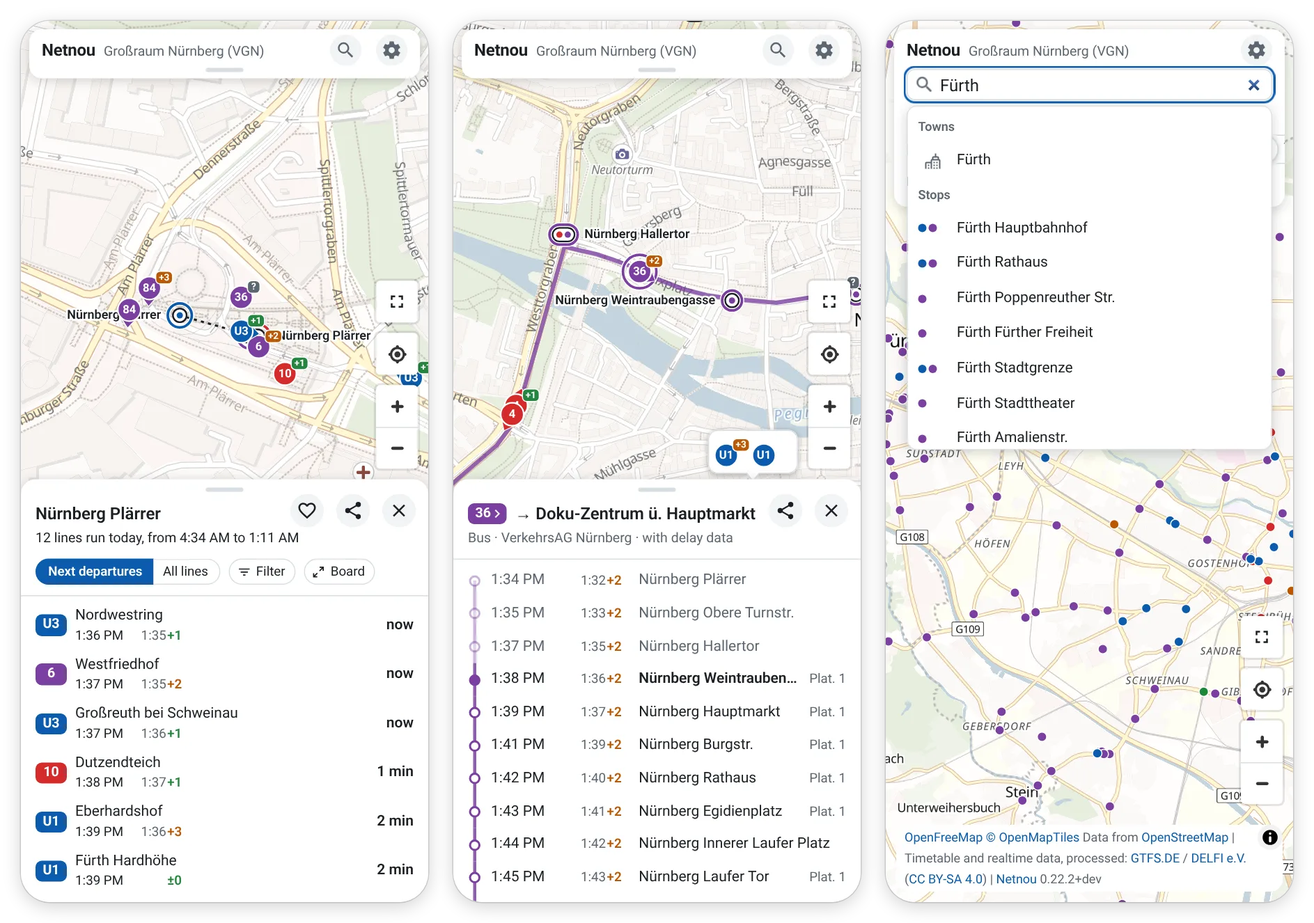
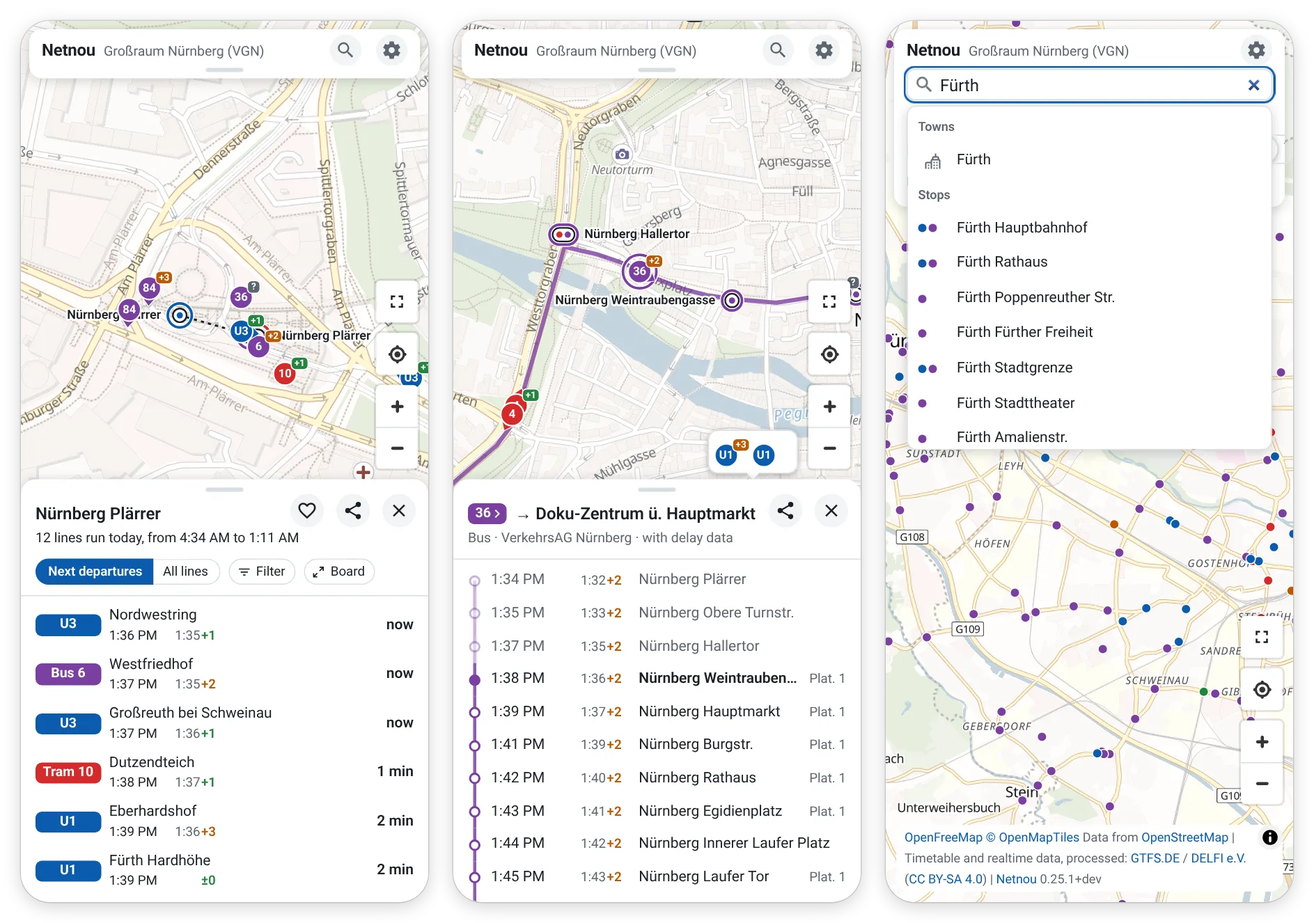
feat(page): tram 4 and bus 4 at one stop say their kind in the badge, not by colour alone (#322)
Where a stop has a line's name in two kinds that day, such as tram 4 and a
bus 4 that stands in for it, the badges of its departures and of its board
put a short name of the kind before the name: "Tram 4", "Bus 4". Colour
alone told them apart before, and a screen reader heard "4" for both.

- api/departures: today.twoKinds, the names the stop has in more than one
  kind that day (a board of several stops also looks at its departures).
- The badges of a stop's departures share one width, as on the board, so
  that the destinations stay in one column.
- The filter lists the directions under their kinds where there are
  several, as "Alle Linien" does.
- A screen reader hears a line named by a number with its kind everywhere:
  in a departure, the link to a line and a direction of the filter.
- Short names for every kind in every locale (badge.kind.*); the test of
  the mode ids checks that each kind has one.

Found by a design review of main (impeccable critique, P2).

Changed region(s): [[0.0307, 0.6493, 0.1844, 0.9585]]

diff --git a/public/app.js b/public/app.js
@@ -13,7 +13,7 @@ import { APP_NAME, READMES, chooseLanguage, dayOf, formatHour, formatList, forma
 import { FAVOURITE_NAME_ZOOM, HEART_MIDDLE, PLACES_ZOOM, RAIL_MODES, heartMark, joiningLines, mergePlaces, namePrecedence, namedAt, placeNames, stopMark, townToShow, townsAlong, withoutStyleStops } from './stops.js';
 import { favouritesFrom, isFavourite, lineFavourite, sameStop, stopFavourite, withChoice, withFavourite } from './favourites.js';
 import { choiceValue, readChoice, toggled } from './choice.js';
-import { DELAY_MAJOR_S, DELAY_MINOR_S, DELAY_SEVERE_S, MINUTES_MAX, NOTE_CHARS, badge as badgeOf, choiceChip as choiceChipOf, clockOf, delayCell as delayCellOf, delayClass, delayNode as delayNodeOf, delaySum as delaySumOf, unknownDelay as unknownDelayOf, delayFlag, delayText, departureLists, departuresSub as departuresSubOf, directionSign as directionSignOf, leavesAt, lineHead, lineLists, lineStops, lineTimetable, minutesNode as minutesNodeOf, trackAt, VEHICLE_R, panelHead as panelHeadOf, stopHeading, stopToday, tomorrowAt as tomorrowAtOf, untilText as untilTextOf, vehicleLabel, warningSign as warningSignOf, warns } from './panel.js';
+import { DELAY_MAJOR_S, DELAY_MINOR_S, DELAY_SEVERE_S, MINUTES_MAX, NOTE_CHARS, badge as badgeOf, choiceChip as choiceChipOf, clockOf, delayCell as delayCellOf, delayClass, delayNode as delayNodeOf, delaySum as delaySumOf, unknownDelay as unknownDelayOf, delayFlag, delayText, departureLists, departuresSub as departuresSubOf, directionSign as directionSignOf, leavesAt, lineBadge, lineHead, lineLists, lineSaid as lineSaidOf, lineStops, lineTimetable, minutesNode as minutesNodeOf, trackAt, twoKinds, VEHICLE_R, panelHead as panelHeadOf, stopHeading, stopToday, tomorrowAt as tomorrowAtOf, untilText as untilTextOf, vehicleLabel, warningSign as warningSignOf, warns } from './panel.js';
 import { BOARD_MAX, BOARD_SHARE, BOARD_STOPS, boardBlocks, boardQuery, boardShare, displayQuery, ledBy, readBoard, readDisplay, readStops } from './display.js';
 import { mdiChevronLeft, mdiChevronRight, mdiCityVariantOutline, mdiFullscreen, mdiFullscreenExit, mdiHeart, mdiHeartOutline, mdiMinusCircleOutline, mdiPlus } from './vendor/material-design-icons/icons.js';
 import { AttributionControl, MapLibreMap, NavigationControl } from './vendor/maplibre-gl/maplibre-gl.mjs';
@@ -853,17 +853,24 @@ function renderChoice() {
     if (last && last.mode === direction.mode && last.line === direction.line) last.directions.push(direction);
     else lines.push({ mode: direction.mode, line: direction.line, directions: [direction] });
   }
+  const line = ({ directions }) => el('li', {}, directions.map((direction) => {
+    const name = directionName(direction, list);
+    const on = all || state.lines.includes(direction.key) || state.lines.includes(direction.key.split('~')[0]);
+    const button = chip(direction.key, on, [directionSign(direction), el('span', { class: 'name', text: name })], () => applyChoice(toggled(state.lines, direction.key)));
+    button.dataset.mode = direction.mode;
+    button.setAttribute('aria-label', t('choice.direction', { line: lineSaid(direction.line, direction.mode), to: name }));
+    return button;
+  }));
+  // (under their kinds where there are several, as "Alle Linien" has them: a tram 4 and a bus 4 are not told apart by colour alone)
+  const kindOf = (mode) => (DRAW_ORDER.includes(mode) ? mode : 'other');
+  const kinds = [...new Set(lines.map(({ mode }) => kindOf(mode)))];
   node.replaceChildren(
     // (every line again, where only some are shown: while all are, it would do nothing)
     ...(all ? [] : [chip('', false, [el('span', { class: 'name', text: t('choice.all') })], () => applyChoice([]))]),
-    el('ul', { class: 'choice-lines' }, lines.map(({ directions }) => el('li', {}, directions.map((direction) => {
-      const name = directionName(direction, list);
-      const on = all || state.lines.includes(direction.key) || state.lines.includes(direction.key.split('~')[0]);
-      const button = chip(direction.key, on, [directionSign(direction), el('span', { class: 'name', text: name })], () => applyChoice(toggled(state.lines, direction.key)));
-      button.dataset.mode = direction.mode;
-      button.setAttribute('aria-label', t('choice.direction', { line: direction.line, to: name }));
-      return button;
-    })))),
+    ...kinds.flatMap((kind) => [
+      ...(kinds.length > 1 ? [el('h3', { class: 'rows-head', text: t(`mode.${kind}`) })] : []),
+      el('ul', { class: 'choice-lines' }, lines.filter(({ mode }) => kindOf(mode) === kind).map(line)),
+    ]),
   );
   if (focused !== null && focused !== undefined) node.querySelector(`[data-key="${CSS.escape(focused)}"]`)?.focus({ preventScroll: true });
 }
@@ -2770,13 +2777,9 @@ function stopTitle(name, town = null) {
   return `${t('address.stopTitle', { stop: shown ? t('address.stopWithTown', { stop: name, town: shown }) : name })} – ${siteName}`;
 }
 
-/**
- * A line as a rider says it: a name that is a number with the kind of the
- * line before it, "Tram 10", "Bus 36"; "U1" or "RE 31" as they are. As the
- * server names it (labelled in server/lib/addresses.js).
- */
+/** A line as a rider says it, "Tram 10", "U1" (lineSaid in panel.js). */
 function lineSaid(name, mode) {
-  return /^\d/.test(name) ? `${t(`address.kind.${mode}`)} ${name}` : name;
+  return lineSaidOf(name, mode, { t });
 }
 
 function lineTitle({ name, mode }) {
@@ -3468,7 +3471,7 @@ function renderTrip(trip, scrollToNext) {
   // The badge leads to the line, whichever way the trip was chosen (#147),
   // with a sign in it: a finger cannot rest on it to find out.
   const line = { name: trip.line, mode: trip.mode, agency: trip.agency, at: trip.lineAt };
-  const toLine = el('button', { type: 'button', class: 'to-line', 'aria-label': t('line.open', { line: trip.line }), title: t('line.open', { line: trip.line }), onclick: () => selectLine(line, { fromTrip: trip.id, from: sheetName() }) }, [
+  const toLine = el('button', { type: 'button', class: 'to-line', 'aria-label': t('line.open', { line: lineSaid(trip.line, trip.mode) }), title: t('line.open', { line: lineSaid(trip.line, trip.mode) }), onclick: () => selectLine(line, { fromTrip: trip.id, from: sheetName() }) }, [
     badge(trip.line, trip.mode, icon(mdiChevronRight)),
   ]);
   fillPanel(
@@ -4014,7 +4017,7 @@ function addStop(blocks) {
 }
 
 /** One departure on a board; in a list of several stops, with the stop it leaves from under where it goes. */
-function boardRow(dep, times, from = null) {
+function boardRow(dep, times, from = null, both = false) {
   // (a delay shows where there is one: on time the board says nothing; with none reported while delays come in for
   // others, the map's question mark, which tells it from one on time)
   const delay = Math.round((dep.delay ?? 0) / 60) === 0 ? null : dep.delay;
@@ -4033,7 +4036,7 @@ function boardRow(dep, times, from = null) {
     ? el('span', { class: 'name', text: dep.to })
     : el('span', { class: 'name from' }, [el('span', { class: 'to', text: dep.to }), el('span', { class: 'stop', text: t('board.from', { stop: from }) })]);
   return el('li', { class: dep.cancelled ? 'cancelled' : '' }, [
-    badge(dep.line, dep.mode),
+    toDom(lineBadge(dep.line, dep.mode, drawing(), both)),
     name,
     el('span', { class: 'platform', text: platformText(dep.platform) }),
     el('span', { class: `when times-${times}` }, when),
@@ -4049,7 +4052,9 @@ function blockRows(block, times) {
   const { rows: from } = namesOf(block);
   const merged = shown.length > 1;
   const departures = merged ? mergedDepartures(shown) : shown[0].known.departures.departures.map((dep) => ({ dep, from: null }));
-  const rows = departures.map((each) => boardRow(each.dep, times, merged ? from[block.indexOf(each.from)] : null));
+  // (the badges of a name the block's stops have in two kinds say their kind)
+  const kinds = twoKinds(shown.map((entry) => entry.known.departures.today), departures.map(({ dep }) => dep));
+  const rows = departures.map((each) => boardRow(each.dep, times, merged ? from[block.indexOf(each.from)] : null, kinds.has(each.dep.line)));
   // (where the next day begins, a line across the board says so)
   const split = tomorrowAt(departures.map(({ dep }) => dep));
   if (split >= 0) rows.splice(split, 0, el('li', { class: 'day' }, [el('span', { text: t('departures.tomorrow') })]));

diff --git a/test/panel.test.js b/test/panel.test.js
@@ -41,9 +41,9 @@ test('a delay is shown in whole minutes, and its colour is that of what it shows
 test('the departures of a stop: a row each that opens its trip, in two lines in the order of a board: line, destination and when it leaves; below, small, the delay and platform', () => {
   const board = { name: 'Plärrer', departures: [departure(4, { delay: 120, platform: '2' }), departure(70, { line: '4', mode: 'tram', to: 'Gibitzenhof' })] };
   // the time it leaves on the right; below the destination the delay as a sum with the planned time, which a screen reader is told is planned
-  assert.equal(html(departureLists(board, drawing('time'))), '<ul class="rows">'
+  assert.equal(html(departureLists(board, drawing('time'))), '<ul class="rows departures">'
     + '<li><button type="button" class="row departure times-time" data-trip="T4_20261023"><span class="badge" data-mode="subway">U1</span><span class="name" title="Langwasser Süd">Langwasser Süd</span><span class="details"><span class="delay" data-delay="minor"><span class="planned"><span aria-hidden="true">10:04</span><span class="spoken">planned 10:04 </span></span>+2</span><span class="platform">Plat. 2</span></span><span class="time">10:06</span></button></li>'
-    + '<li><button type="button" class="row departure times-time" data-trip="T70_20261023"><span class="badge" data-mode="tram">4</span><span class="name" title="Gibitzenhof">Gibitzenhof</span><span class="details"><span class="delay" data-delay="none"></span><span class="platform"></span></span><span class="time">11:10</span></button></li>'
+    + '<li><button type="button" class="row departure times-time" data-trip="T70_20261023"><span class="badge" data-mode="tram"><span aria-hidden="true">4</span><span class="spoken">tram 4</span></span><span class="name" title="Gibitzenhof">Gibitzenhof</span><span class="details"><span class="delay" data-delay="none"></span><span class="platform"></span></span><span class="time">11:10</span></button></li>'
     + '</ul>');
   // with a 12-hour clock the planned time leaves out "AM", which the time before it says; a screen reader hears it all
   const twelve = new Intl.DateTimeFormat('en-US', { timeStyle: 'short', timeZone: 'UTC' });
@@ -81,12 +81,34 @@ test('a departure without a delay reported while delays come in for others has t
   assert.ok(!html(departureLists(board, drawing('time'))).includes('?'));
 });
 
+test('where a stop has a number in two kinds, the badges say the kind: a tram 4 and the bus 4 standing in for it are not told apart by colour alone', () => {
+  const board = { name: 'Plärrer', today: { twoKinds: ['4'] }, departures: [departure(4), departure(5, { line: '4', mode: 'tram', to: 'Gibitzenhof' }), departure(6, { line: '4', mode: 'bus', to: 'Gibitzenhof' }), departure(7, { line: '36', mode: 'bus', to: 'Doku-Zentrum' })] };
+  const out = html(departureLists(board, drawing('time')));
+  // the short name of the kind before the number; a screen reader hears the kind in full
+  assert.ok(out.includes('<span class="badge" data-mode="tram"><span aria-hidden="true">Tram 4</span><span class="spoken">tram 4</span></span>'), out);
+  assert.ok(out.includes('<span class="badge" data-mode="bus"><span aria-hidden="true">Bus 4</span><span class="spoken">bus 4</span></span>'));
+  // a number the stop has in one kind alone, said with its kind; a name with its letters as it is
+  assert.ok(out.includes('<span class="badge" data-mode="bus"><span aria-hidden="true">36</span><span class="spoken">bus 36</span></span>'));
+  assert.ok(out.includes('<span class="badge" data-mode="subway">U1</span>'));
+  // so too where only the departures show both, as one after midnight of the next day's lines
+  assert.ok(html(departureLists({ ...board, today: null }, drawing('time'))).includes('<span aria-hidden="true">Bus 4</span>'));
+  // a name that begins with the short name of its kind has it once: a bus U1 standing in for the U-Bahn is "Bus U1", the U-Bahn "U1"
+  const u1 = html(departureLists({ name: 'Plärrer', today: { twoKinds: ['U1'] }, departures: [departure(4), departure(5, { mode: 'bus' })] }, drawing('time')));
+  assert.ok(u1.includes('<span class="badge" data-mode="subway"><span aria-hidden="true">U1</span><span class="spoken">U-Bahn U1</span></span>'), u1);
+  assert.ok(u1.includes('<span class="badge" data-mode="bus"><span aria-hidden="true">Bus U1</span><span class="spoken">bus U1</span></span>'));
+  // a kind the page has no name of is a line
+  const other = html(departureLists({ name: 'Plärrer', departures: [departure(4, { line: '4', mode: 'tram' }), departure(5, { line: '4', mode: 'gondola' })] }, drawing('time')));
+  assert.ok(other.includes(`<span class="badge" data-mode="other"><span aria-hidden="true">${en['badge.kind.other']} 4</span><span class="spoken">${en['address.kind.other']} 4</span></span>`), other);
+  // the link to a line says it as a rider does
+  assert.ok(html(lineLists({ lines: [{ name: '4', mode: 'tram', agency: 'VAG', at: [49.44, 11.06], path: 'line/vag/tram/4', ways: [] }] }, drawing())).includes('aria-label="To line tram 4" title="To line tram 4"'));
+});
+
 test('a departure that is cancelled says so, and one with something wrong with it has the sign of a warning that says what', () => {
   const warned = departure(5, { warnings: [{ title: null, text: 'Signal failure', severity: 'warning' }] });
   const board = { name: 'Plärrer', departures: [warned, departure(8, { cancelled: true, platform: '1' })] };
   const out = html(departureLists(board, drawing('time')));
   // every row of a list with a warning keeps the place of its sign
-  assert.ok(out.startsWith('<ul class="rows signed">'));
+  assert.ok(out.startsWith('<ul class="rows departures signed">'));
   assert.ok(out.includes('<span class="late"><span class="delay" data-delay="none"></span><svg class="icon sign" viewBox="0 0 24 24" role="img" aria-label="Warning: Signal failure" data-said="Signal failure"><path d="'));
   assert.ok(out.includes(`<button type="button" class="row departure times-time cancelled" data-trip="T8_20261023"><span class="badge" data-mode="subway">U1</span><span class="name" title="Langwasser Süd">Langwasser Süd</span><span class="details"><span class="late"><span class="delay"></span></span><span class="platform">${en['departures.cancelled']}</span></span><span class="time">10:08</span></button>`));
 });

diff --git a/public/panel.js b/public/panel.js
@@ -79,6 +79,48 @@ export function delayText(delay) {
 /** The name of a line on the colour of its kind (style.css gives the colour by data-mode). */
 export const badge = (line, mode, ...more) => h('span', { class: 'badge', 'data-mode': kindOf(mode) }, line, ...more);
 
+/**
+ * A line as a rider says it: a name that is a number with the kind of the
+ * line before it, "Tram 10", "Bus 36"; "U1" or "RE 31" as they are, as the
+ * server names it (labelled in server/lib/addresses.js). Where its stop has
+ * the name in two kinds (`both`), with the kind whatever the name is: a bus
+ * named U1 that stands in for the U-Bahn is "Bus U1".
+ */
+export const lineSaid = (name, mode, { t }, both = false) => (both || /^\d/.test(name) ? `${t(`address.kind.${kindOf(mode)}`)} ${name}` : name);
+
+/**
+ * The badge of a line in a list of departures: where its stop has the name
+ * in two kinds (`both`), such as tram 4 and a bus 4 that stands in for it,
+ * with the short name of its kind before the name, "Tram 4" and "Bus 4", as
+ * colour alone would not tell them apart; not where the name begins with it
+ * already ("U1"). A screen reader hears the line as a rider says it (lineSaid).
+ */
+export function lineBadge(name, mode, context, both = false) {
+  const short = both ? context.t(`badge.kind.${kindOf(mode)}`) : '';
+  const shown = short && !name.startsWith(short) ? `${short} ${name}` : name;
+  const said = lineSaid(name, mode, context, both);
+  return said === shown ? badge(shown, mode) : badge([], mode, h('span', { 'aria-hidden': 'true' }, shown), h('span', { class: 'spoken' }, said));
+}
+
+/**
+ * The names whose badges say their kind (lineBadge) in departures from one
+ * stop or several: those each stop has that day in more than one kind (its
+ * `today.twoKinds` from api/departures), and those the departures show in
+ * more than one, as where one stop of several has the tram and another the
+ * bus, or after midnight.
+ * @param todays the `today` of each stop, or null
+ */
+export function twoKinds(todays, departures) {
+  const names = new Set(todays.flatMap((today) => today?.twoKinds ?? []));
+  const kinds = new Map();
+  for (const { line, mode } of departures) {
+    if (!kinds.has(line)) kinds.set(line, new Set());
+    kinds.get(line).add(kindOf(mode));
+  }
+  for (const [name, modes] of kinds) if (modes.size > 1) names.add(name);
+  return names;
+}
+
 export const delayNode = (delay) => h('span', { class: 'delay', 'data-delay': delayClass(delay) }, delayText(delay));
 
 /**
@@ -200,10 +242,12 @@ export function tomorrowAt(departures, { day, now }) {
 export function departureLists(board, context) {
   const { t } = context;
   const signed = board.departures.some((dep) => dep.warnings.length > 0);
-  const rows = board.departures.map((dep) => h('li', {}, departureRow(dep, signed, context)));
+  // (the badges of a name the stop has in two kinds say their kind)
+  const withKinds = { ...context, twoKinds: twoKinds([board.today], board.departures) };
+  const rows = board.departures.map((dep) => h('li', {}, departureRow(dep, signed, withKinds)));
   // (the 24 hours the text speaks of are the furthest departures() in server/lib/timetable.js looks)
   if (!rows.length) return [h('p', { class: 'panel-empty' }, t('departures.none'))];
-  const list = (part) => h('ul', { class: `rows${signed ? ' signed' : ''}` }, part);
+  const list = (part) => h('ul', { class: `rows departures${signed ? ' signed' : ''}` }, part);
   const split = tomorrowAt(board.departures, context);
   if (split < 0) return [list(rows)];
   return [split > 0 ? list(rows.slice(0, split)) : null, h('h3', { class: 'rows-head day-head' }, t('departures.tomorrow')), list(rows.slice(split))].filter(Boolean);
@@ -217,7 +261,8 @@ export function departureLists(board, context) {
  * minutes stand on the right, the delay as a sum with the planned time
  * (delaySum; beside minutes alone), and the platform. Without a delay
  * reported while delays come in for others (`live`), the map's question
- * mark (unknownDelay).
+ * mark (unknownDelay). The badge says the kind where the stop has the line's
+ * name in two kinds (context.twoKinds, lineBadge).
  * @param signed whether a train of its list has something wrong with it (delayCell)
  * @param byLine whether it is the next departure of a way in the list of a
  *   stop's lines (lineLists): without the badge, which its line has, and
@@ -233,7 +278,7 @@ function departureRow(dep, signed, context, byLine = false) {
     : times === 'time' ? leaves()
       : minutesNode(dep, times === 'minutes' ? 'time' : 'none', context);
   return h('button', { type: 'button', class: `row departure times-${times}${byLine ? ' by-line' : ''}${dep.cancelled ? ' cancelled' : ''}`, 'data-trip': dep.trip },
-    byLine ? null : badge(dep.line, dep.mode),
+    byLine ? null : lineBadge(dep.line, dep.mode, context, context.twoKinds?.has(dep.line)),
     h('span', { class: 'name', title: dep.to }, dep.to),
     h('span', { class: 'details' },
       times === 'both' || later ? leaves() : null,
@@ -251,8 +296,8 @@ function departureRow(dep, signed, context, byLine = false) {
  * its details instead, by what data-line says of it.
  * @param line { name, mode, agency, at, path } as api/departures?list=lines has it
  */
-export function lineLink(line, { t }) {
-  const label = t('line.open', { line: line.name });
+export function lineLink(line, context) {
+  const label = context.t('line.open', { line: lineSaid(line.name, line.mode, context) });
   const { name, mode, agency, at } = line;
   return h('a', { class: 'to-line', href: line.path, 'aria-label': label, title: label, 'data-line': JSON.stringify({ name, mode, agency, at }) },
     badge(line.name, line.mode, iconOf(mdiChevronRight)));

diff --git a/test/server.test.js b/test/server.test.js
@@ -437,7 +437,7 @@ test('/api/departures', async () => {
   // (with its address, which the page writes into its own, #288)
   assert.deepEqual(board, { id: 'A', name: 'Alpha', town: null, lat: 49.4, lon: 11, notes: [{ title: 'Aufzug gestört', text: 'Aufzug außer Betrieb', severity: 'info' }], path: 'stop/alpha' });
   // and what leaves it on the service day (#289): one line, every hour of the day
-  assert.deepEqual([day.lines, day.last - day.first], [1, 23 * 3600]);
+  assert.deepEqual([day.lines, day.last - day.first, day.twoKinds], [1, 23 * 3600, []]);
   // one an hour from each of the runs under way: four to nine in the next two hours, and as that is fewer than ten, the next ones up to ten (#165)
   const soon = departures.filter((d) => d.planned <= now + 7200).length;
   assert.ok(soon >= 4 && soon <= 9, `${soon} departures in two hours`);
@@ -680,7 +680,7 @@ test('the address of a stop or a line is a page of its own, found again by its n
   // and behind the switch all its lines, each a link to its page (#255)
   assert.ok(page.includes('<div class="view-lines" hidden><ul class="line-rows signed"><li><a class="to-line" href="line/testbetrieb/subway/u1" aria-label="Zur Linie U1" title="Zur Linie U1" data-line='));
   // (after half past eleven the next one is tomorrow's, which a heading says before it)
-  assert.match(page, /<div id="panel-body" data-sent>(<h3 class="rows-head day-head">morgen<\/h3>)?<ul class="rows signed"><li><button type="button" class="row departure times-both" data-trip="T1_\d{8}"><span class="badge" data-mode="[a-z]+">U1<\/span><span class="name" title="[^"]+">[^<]+<\/span><span class="details"><span class="time">\d\d:\d\d<\/span>/);
+  assert.match(page, /<div id="panel-body" data-sent>(<h3 class="rows-head day-head">morgen<\/h3>)?<ul class="rows departures signed"><li><button type="button" class="row departure times-both" data-trip="T1_\d{8}"><span class="badge" data-mode="[a-z]+">U1<\/span><span class="name" title="[^"]+">[^<]+<\/span><span class="details"><span class="time">\d\d:\d\d<\/span>/);
   assert.ok(page.includes('<span class="badge" data-mode="subway">U1</span><span class="name" title="Rundkurs">Rundkurs</span>'));
   assert.ok(page.includes('<div class="site-name">Netnou</div>'));
   assert.deepEqual(page.match(/<h1\b/g), ['<h1']);

diff --git a/test/page.test.js b/test/page.test.js
@@ -492,7 +492,7 @@ test('the page of a stop or a line has its details in it as they are, with their
   assert.ok(panelHtml('stop', { ...board, name: 'Nürnberg Plärrer', town: 'Nürnberg' }, at).head.startsWith('<div class="panel-head"><h1>Nürnberg Plärrer</h1>'));
   assert.ok(stop.head.startsWith('<div class="panel-head"><h1>Plärrer</h1><p class="sub with-choice"><span class="view-switch" role="group" aria-label="Ansicht"><button type="button" aria-pressed="true" data-view="departures">Nächste Abfahrten</button><button type="button" aria-pressed="false" data-view="lines">Alle Linien</button></span><span class="choice"><button type="button" class="choice-open" aria-label="Filter"'));
   // the times as the page shows them until the visitor chooses otherwise, both: the time of day where the area is, and the minutes
-  assert.equal(stop.body, '<ul class="rows"><li><button type="button" class="row departure times-both" data-trip="T1_20261023"><span class="badge" data-mode="subway">U1</span><span class="name" title="Langwasser Süd">Langwasser Süd</span><span class="details"><span class="time">12:05</span><span class="delay" data-delay="ok"><span class="planned"><span aria-hidden="true">12:04</span><span class="spoken">geplant 12:04 </span></span>+1</span><span class="platform">Gl. 2</span></span>'
+  assert.equal(stop.body, '<ul class="rows departures"><li><button type="button" class="row departure times-both" data-trip="T1_20261023"><span class="badge" data-mode="subway">U1</span><span class="name" title="Langwasser Süd">Langwasser Süd</span><span class="details"><span class="time">12:05</span><span class="delay" data-delay="ok"><span class="planned"><span aria-hidden="true">12:04</span><span class="spoken">geplant 12:04 </span></span>+1</span><span class="platform">Gl. 2</span></span>'
     + `<span class="minutes" data-leaves="${now + 300}" data-far="none">5 min</span></button></li></ul>`
     // and behind the switch all its lines, each a link to its page (#255)
     + '<div class="view-lines" hidden><ul class="line-rows"><li><a class="to-line" href="line/vag/subway/u1" aria-label="Zur Linie U1" title="Zur Linie U1" data-line="{&#34;name&#34;:&#34;U1&#34;,&#34;mode&#34;:&#34;subway&#34;,&#34;agency&#34;:&#34;VAG&#34;,&#34;at&#34;:[49.45,11.07]}">'

diff --git a/public/style.css b/public/style.css
@@ -691,6 +691,9 @@ button:focus-visible, select:focus-visible, .row:focus-visible, .panel:focus-vis
 .choice-list { margin-top: 12px; }
 /* (as far apart, one below the other, as a finger needs: see "room for a finger") */
 .choice-lines { list-style: none; margin: 10px 0 0; padding: 0; display: grid; gap: 15px; }
+/* The kinds of the lines, where there are several (renderChoice in app.js), as in "Alle Linien". */
+.choice-list .rows-head { padding: 22px 0 0; }
+.choice-list > .rows-head:first-child { padding-top: 4px; }
 .choice-lines li { display: flex; flex-wrap: wrap; gap: 15px 6px; }
 .choice-list .chip { white-space: normal; text-align: left; }
 .choice-list .chip .direction-sign { margin: -5px -2px -5px -4px; }
@@ -987,6 +990,11 @@ summary.days-head .icon { align-self: center; width: 20px; height: 20px; color: 
    time, the platform. A row is then a finger high, 47 px. */
 .row.departure { grid-template-columns: auto minmax(0, 1fr) auto; grid-template-rows: auto auto; row-gap: 0; padding-block: 5px; }
 .row.departure > .badge { grid-column: 1; grid-row: 1 / 3; }
+/* The departures of a stop share their columns, as the board's do (departureLists in panel.js): the badges are all
+   as wide as the widest, so that a "Tram 4" beside a "Bus 4" (lineBadge) leaves the destinations in one column. */
+.rows.departures { display: grid; grid-template-columns: auto minmax(0, 1fr) auto; }
+.rows.departures > li { display: grid; grid-column: 1 / -1; grid-template-columns: subgrid; }
+.rows.departures > li > .row.departure { grid-column: 1 / -1; grid-template-columns: subgrid; }
 .row.departure > .name { grid-row: 1; }
 .row.departure > .details { grid-row: 2; display: flex; align-items: baseline; gap: 6px; min-width: 0; overflow: hidden; color: var(--text-muted); font-size: 12.5px; white-space: nowrap; }
 .row.departure > .details > :empty { display: none; }

diff --git a/test/frontend.test.js b/test/frontend.test.js
@@ -18,7 +18,7 @@ const read = (file) => fs.readFileSync(new URL(file, publicDir), 'utf8');
 
 // Keys that are put together while the page runs, by what they start with. The
 // rest of each is checked where it comes from (mode.<id>: see the mode ids below).
-const DYNAMIC_KEYS = ['mode.', 'address.kind.'];
+const DYNAMIC_KEYS = ['mode.', 'address.kind.', 'badge.kind.'];
 
 // A comment or a string literal. Good enough for the code as it is written
 // here: no regular expression in it contains a quote or two slashes, and no
@@ -456,6 +456,8 @@ test('the mode ids of the server, the page, the style sheet and the texts are th
   assert.deepEqual(arrayIn(app, 'DRAW_ORDER').sort(), expected, 'DRAW_ORDER in app.js');
   assert.deepEqual([...new Set([...read('style.css').matchAll(/^\s*--mode-([a-z]+):/gm)].map((match) => match[1]))].sort(), expected, '--mode-* in style.css');
   assert.deepEqual(Object.keys(en).filter((key) => key.startsWith('mode.')).map((key) => key.slice('mode.'.length)).sort(), expected, 'mode.* in locales/en.js');
+  // (each with the short name its badges have where a stop has a name in two kinds)
+  assert.deepEqual(Object.keys(en).filter((key) => key.startsWith('badge.kind.')).map((key) => key.slice('badge.kind.'.length)).sort(), expected, 'badge.kind.* in locales/en.js');
   for (const mode of arrayIn(app, 'MODES')) assert.ok(MODES.includes(mode), `${mode} in MODES of app.js`);
   for (const mode of arrayIn(read('stops.js'), 'RAIL_MODES')) assert.ok(MODES.includes(mode), `${mode} in RAIL_MODES of stops.js`);
 });

diff --git a/server/index.js b/server/index.js
@@ -307,8 +307,23 @@ function addressed(asked) {
  */
 const stopFacts = (stationId, now) => facts(timetable).stop(timetable.stopIndex.get(stationId), now);
 
-/** Of the facts of a station (stopFacts), what the line below its name says. */
-const todayOf = (known) => ({ first: known.first, last: known.last, lines: known.lines.size, all: known.all });
+/**
+ * Of the facts of a station (stopFacts), what the line below its name says;
+ * and the names it has that day in more than one kind, such as tram 4 and a
+ * bus 4 that stands in for it, whose badges then say their kind.
+ */
+const todayOf = (known) => ({ first: known.first, last: known.last, lines: known.lines.size, all: known.all, twoKinds: twoKinds(known.lines.keys()) });
+
+/** Of lines by their index, the names that more than one kind of them has. */
+function twoKinds(indexes) {
+  const kinds = new Map();
+  for (const index of indexes) {
+    const { name, mode } = timetable.lines[index];
+    if (!kinds.has(name)) kinds.set(name, new Set());
+    kinds.get(name).add(mode);
+  }
+  return [...kinds].filter(([, modes]) => modes.size > 1).map(([name]) => name);
+}
 
 /**
  * Every line of a station with its next departure each way (Timetable.linesAt, #255), each with the address of its page

diff --git a/public/locales/en.js b/public/locales/en.js
@@ -106,6 +106,16 @@ export default {
   'mode.ferry': 'Ferry',
   'mode.cable': 'Cable car & monorail',
   'mode.other': 'Other',
+  // (short, before the name in a badge where a stop has the name in two kinds: "Tram 4", "Bus 4")
+  'badge.kind.subway': 'U',
+  'badge.kind.tram': 'Tram',
+  'badge.kind.bus': 'Bus',
+  'badge.kind.suburban': 'S',
+  'badge.kind.regional': 'Train',
+  'badge.kind.longdistance': 'Intercity',
+  'badge.kind.ferry': 'Ferry',
+  'badge.kind.cable': 'Cable',
+  'badge.kind.other': 'Line',
 
 
   // the button with the eye next to the settings: it takes the controls of the page away, and brings them back

diff --git a/public/locales/de.js b/public/locales/de.js
@@ -77,6 +77,16 @@ export default {
   'mode.ferry': 'Fähre',
   'mode.cable': 'Seil- & Schwebebahn',
   'mode.other': 'Sonstige',
+  // (short, before the name in a badge where a stop has the name in two kinds: "Tram 4", "Bus 4")
+  'badge.kind.subway': 'U',
+  'badge.kind.tram': 'Tram',
+  'badge.kind.bus': 'Bus',
+  'badge.kind.suburban': 'S',
+  'badge.kind.regional': 'Zug',
+  'badge.kind.longdistance': 'Fernzug',
+  'badge.kind.ferry': 'Fähre',
+  'badge.kind.cable': 'Bahn',
+  'badge.kind.other': 'Linie',
 
 
   'display.wall': 'Als Wandbildschirm',

diff --git a/docs/api.md b/docs/api.md
@@ -727,7 +727,9 @@ it (#254). `path` is the address of the station's page, as
 line below its name on the page says it: `first` and `last`, the times of
 its first and last departure, `null` where nothing leaves it that day;
 `lines`, how many lines leave it that day, and `all`, how many on any day
-of the timetable. Yesterday's service day counts while its last departure
+of the timetable; `twoKinds`, the names it has that day in more than one
+kind, such as tram 4 and a bus 4 that stands in for it, whose badges on the
+page then say their kind. Yesterday's service day counts while its last departure
 after midnight is still to come.
 `cancelled` is true when the run is cancelled or skips this station. `notes`
 are notes of the feed about the station, such as a lift out of order, each
